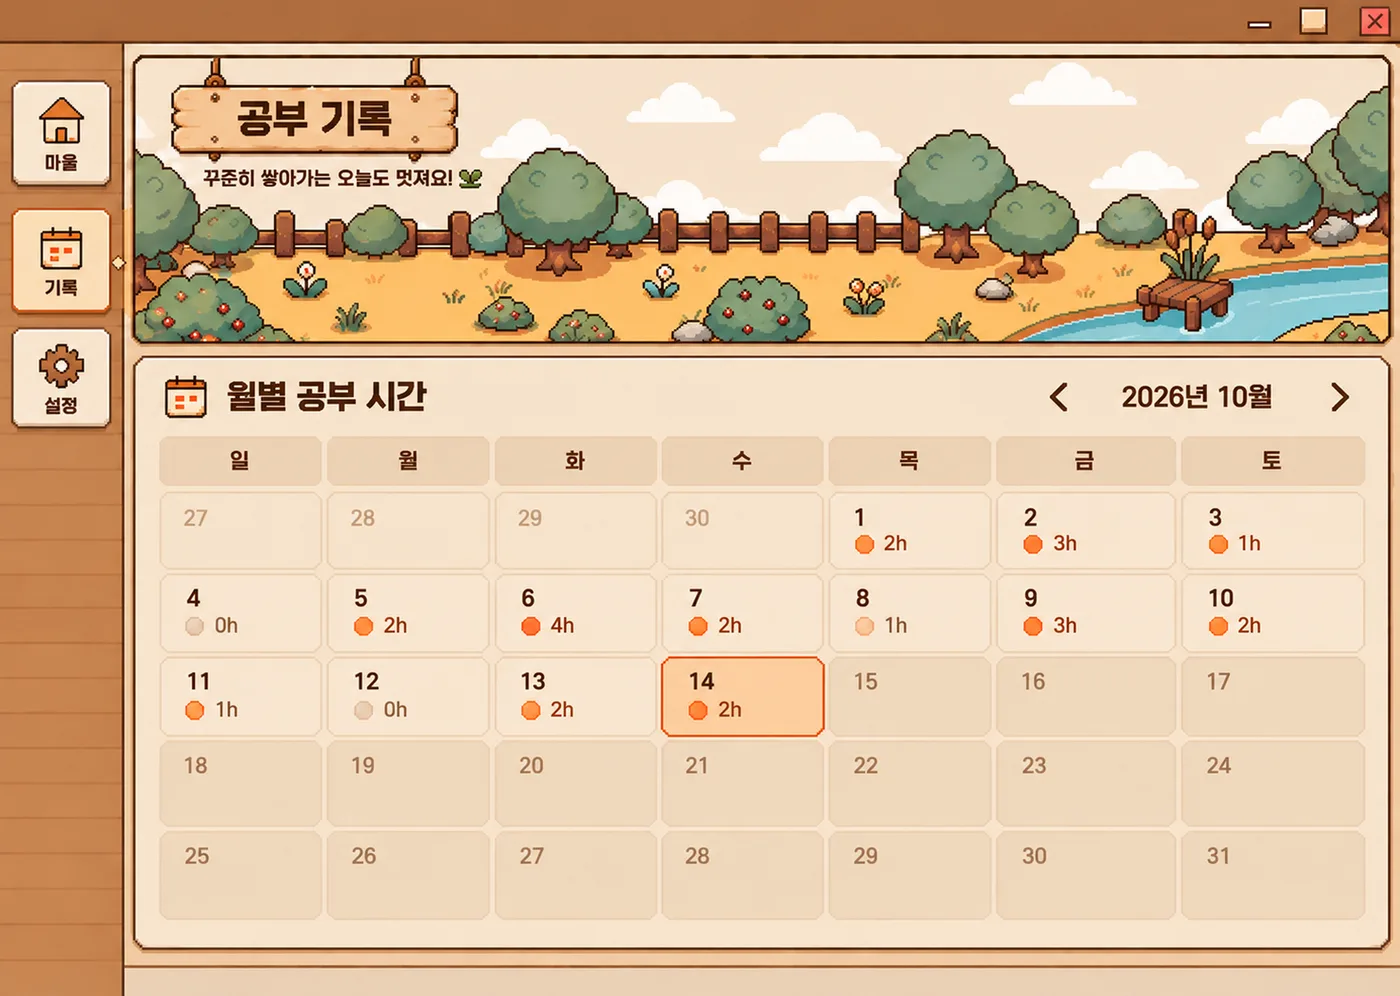
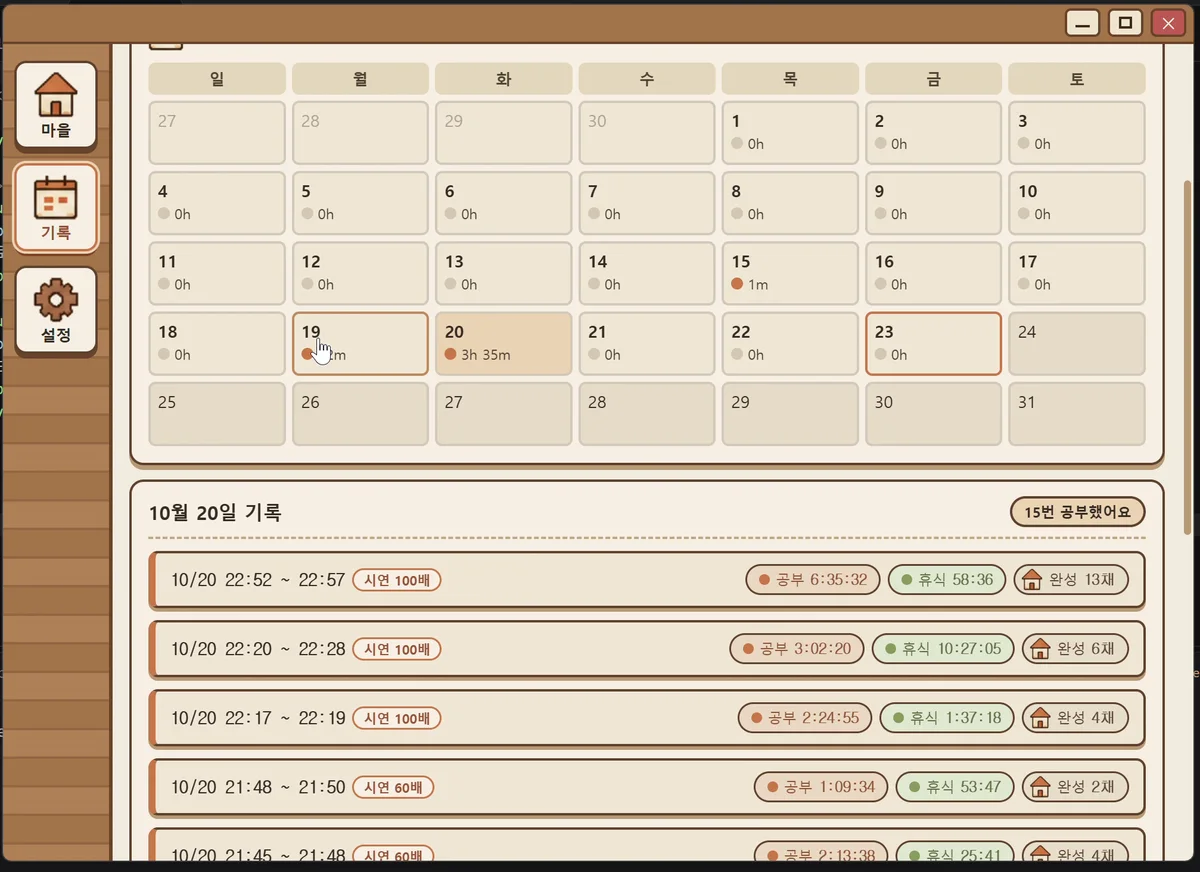
로드맵 V2~V5를 물음표 실루엣으로, 공부 기록 캡처를 새 영상 화면으로 교체
Claude-Session: https://claude.ai/code/session_01GSA8E1f1MvwvK6mPfFhY5D

diff --git a/index.html b/index.html
@@ -178,6 +178,20 @@ section.block{padding:110px 0}
 .ver h3{font-family:var(--round);font-weight:400;font-size:21px;margin:2px 0 10px;color:var(--wood-dark)}
 .ver ul{margin:0;padding:0 0 0 18px;font-size:15px;color:var(--ink-soft);line-height:1.6}
 .ver li+li{margin-top:4px}
+/* roadmap: future versions as silhouettes */
+.future{position:relative;width:150px;height:118px;display:flex;align-items:flex-end;justify-content:center}
+.sil{display:block;background:#dcc3a1;-webkit-mask:var(--m) center bottom/contain no-repeat;mask:var(--m) center bottom/contain no-repeat}
+.qb{position:absolute;top:0;right:4px;width:32px;height:32px;border-radius:50%;border:2px dashed #c9a37a;background:var(--paper);color:var(--wood);font-family:var(--round);font-size:19px;line-height:28px;text-align:center}
+.vil .sil{position:absolute;bottom:0}
+.vil .a{left:6px;width:52px;height:60px}.vil .b{left:46px;width:62px;height:76px;bottom:8px}.vil .c{right:8px;width:50px;height:58px}
+.polaroid{width:96px;height:104px;background:#fffdf8;border:2px solid #e3cfb2;border-radius:6px;padding:8px 8px 22px;transform:rotate(-6deg);box-shadow:0 4px 0 #ecdcc4}
+.polaroid .sil{width:100%;height:100%;background:#e3cba8}
+.deco .sil{width:84px;height:100px}
+.deco svg{position:absolute}
+.duo .sil{width:62px;height:66px}
+.duo .flip{transform:scaleX(-1)}
+@media (max-width:900px){.future{zoom:.8}}
+@media (max-width:520px){.future{zoom:.62}}
 .road-note{margin-top:26px;font-size:15px;color:var(--ink-soft)}
 
 /* launch section */
@@ -465,7 +479,7 @@ footer .brand img{width:28px;height:28px}
           </div>
         </div>
         <div class="ver">
-          <div class="pic"><img src="/assets/house_3_green.png" alt=""></div>
+          <div class="pic"><div class="future vil" aria-hidden="true"><span class="sil a" style="--m:url(/assets/house_4_green.png)"></span><span class="sil b" style="--m:url(/assets/house_4_red.png)"></span><span class="sil c" style="--m:url(/assets/house_4_green.png)"></span><span class="qb">?</span></div></div>
           <div class="card">
             <div class="v">V2</div>
             <h3>마을 둘러보기</h3>
@@ -473,7 +487,7 @@ footer .brand img{width:28px;height:28px}
           </div>
         </div>
         <div class="ver">
-          <div class="pic"><img src="/assets/house_2.png" alt=""></div>
+          <div class="pic"><div class="future" aria-hidden="true"><div class="polaroid"><span class="sil" style="--m:url(/assets/house_4_red.png)"></span></div><span class="qb">?</span></div></div>
           <div class="card">
             <div class="v">V3</div>
             <h3>기록 남기고 공유</h3>
@@ -481,7 +495,7 @@ footer .brand img{width:28px;height:28px}
           </div>
         </div>
         <div class="ver">
-          <div class="pic"><img src="/assets/house_1.png" alt=""></div>
+          <div class="pic"><div class="future deco" aria-hidden="true"><span class="sil" style="--m:url(/assets/house_4_green.png)"></span><svg style="left:14px;top:26px" width="16" height="16" viewBox="0 0 16 16" aria-hidden="true"><path d="M8 0l2 6 6 2-6 2-2 6-2-6-6-2 6-2z" fill="#e6c48f"/></svg><svg style="right:24px;top:44px;transform:scale(.7)" width="16" height="16" viewBox="0 0 16 16" aria-hidden="true"><path d="M8 0l2 6 6 2-6 2-2 6-2-6-6-2 6-2z" fill="#e6c48f"/></svg><svg style="left:28px;bottom:10px;transform:scale(.6)" width="16" height="16" viewBox="0 0 16 16" aria-hidden="true"><path d="M8 0l2 6 6 2-6 2-2 6-2-6-6-2 6-2z" fill="#e6c48f"/></svg><span class="qb">?</span></div></div>
           <div class="card">
             <div class="v">V4</div>
             <h3>꾸미기와 상점</h3>
@@ -489,7 +503,7 @@ footer .brand img{width:28px;height:28px}
           </div>
         </div>
         <div class="ver">
-          <div class="pic"><img src="/assets/house_0.png" alt=""></div>
+          <div class="pic"><div class="future duo" aria-hidden="true"><span class="sil" style="--m:url(/assets/otter_full.png)"></span><span class="sil flip" style="--m:url(/assets/otter_full.png)"></span><span class="qb">?</span></div></div>
           <div class="card">
             <div class="v">V5</div>
             <h3>함께 공부</h3>
